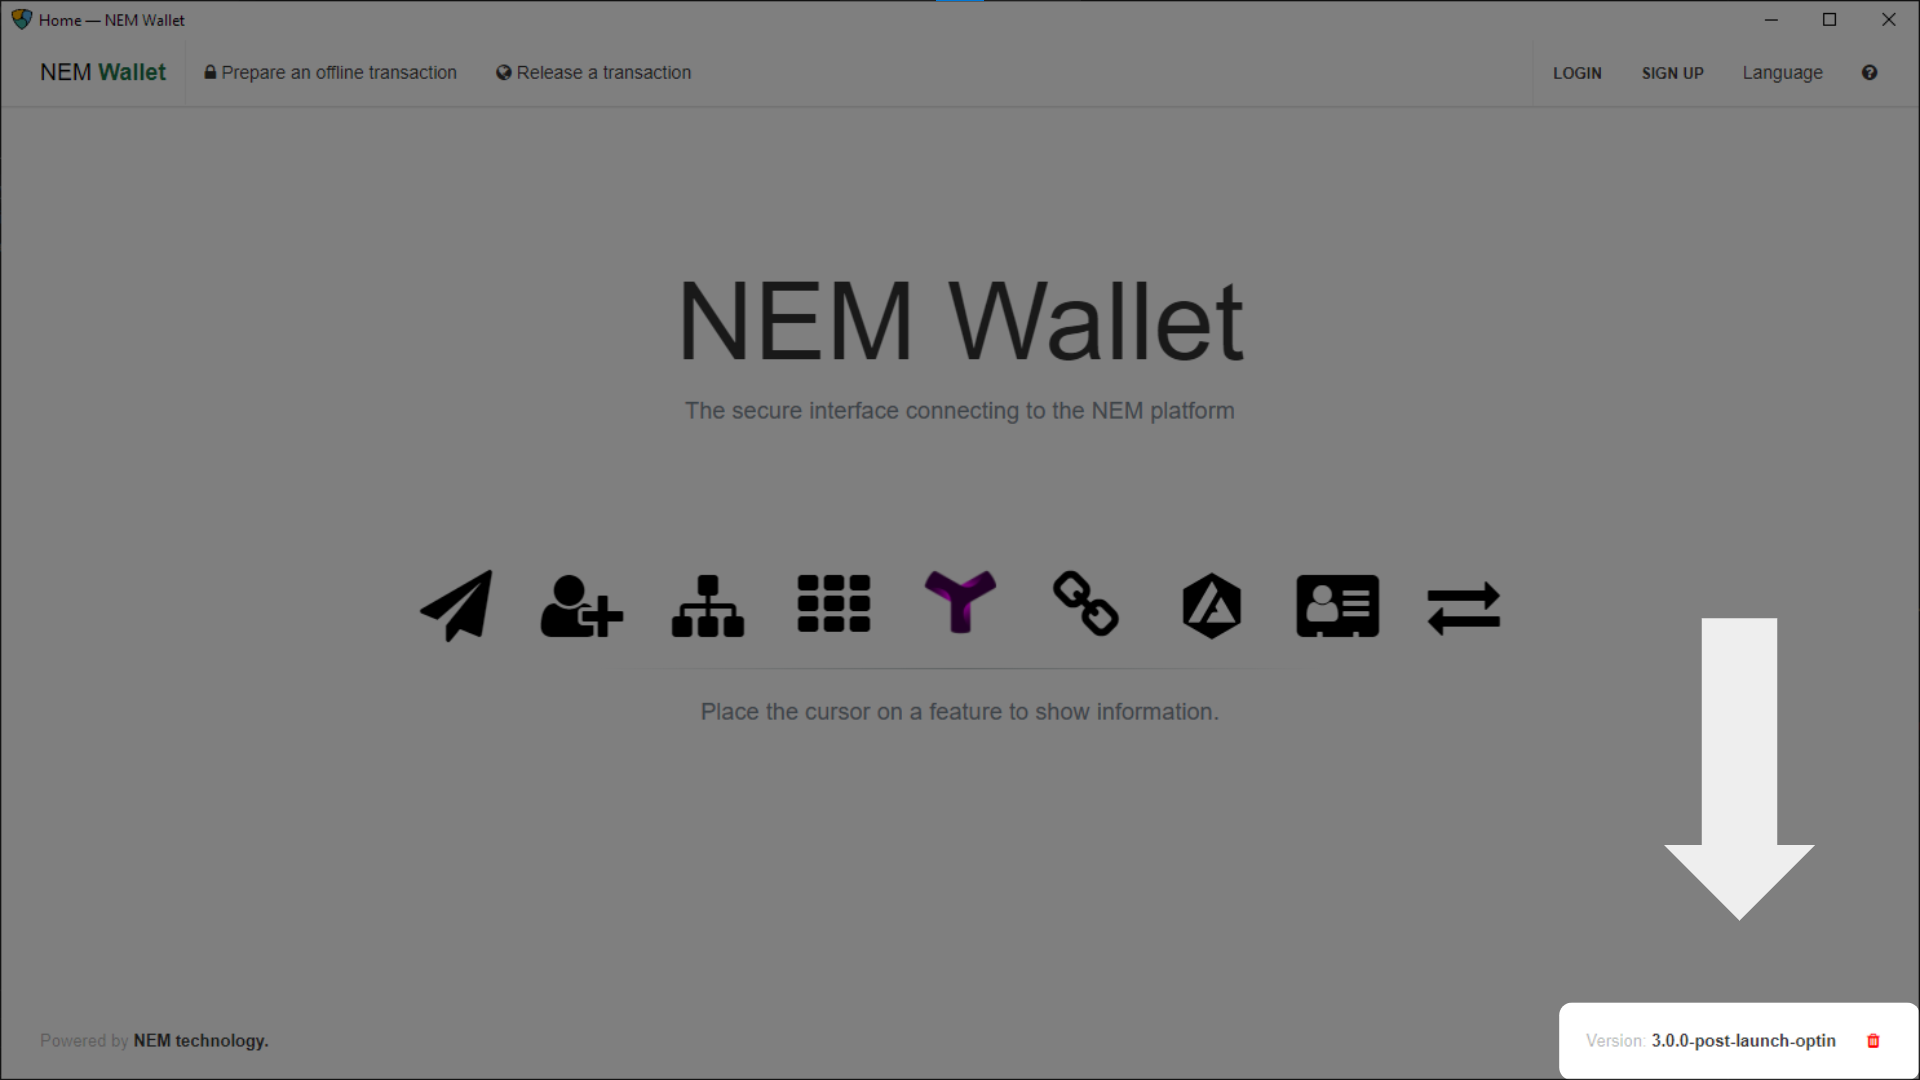
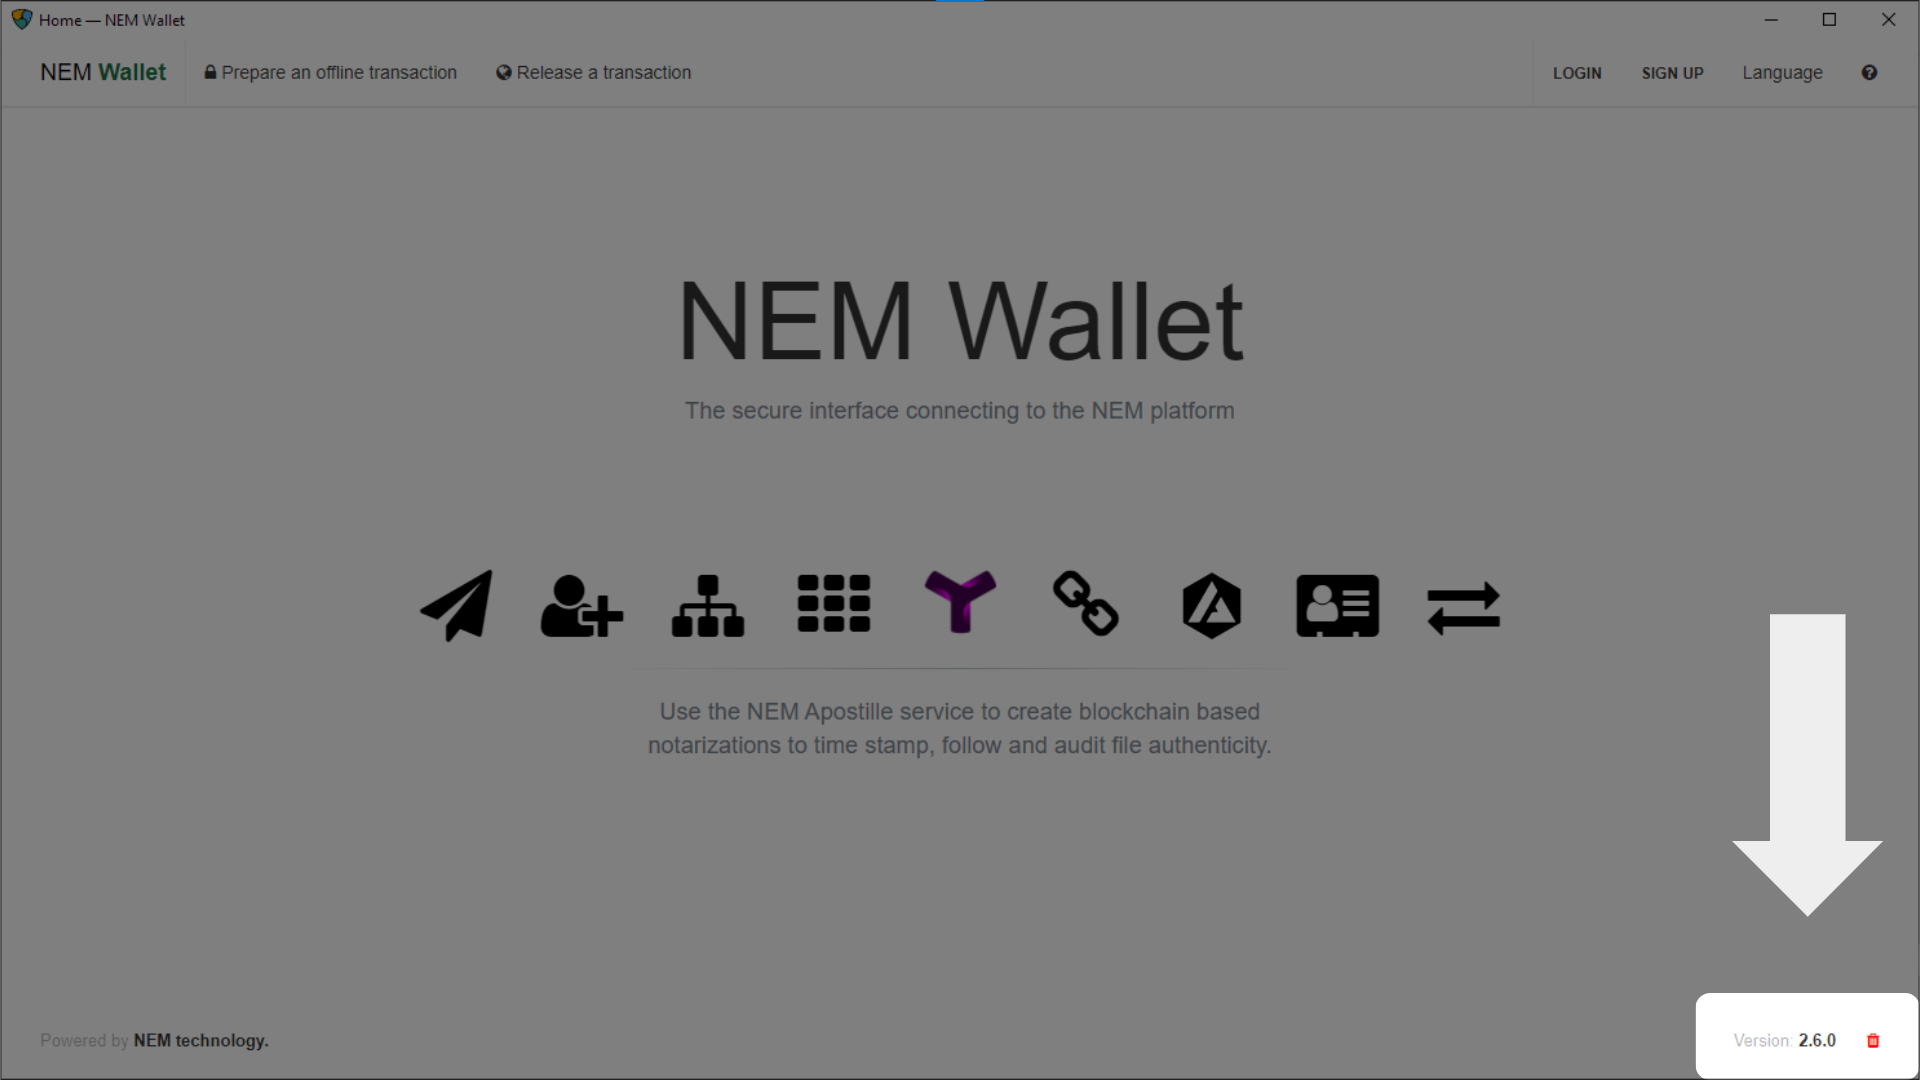
Use Nano wallet 2.6.0 por post-launch opt-in
Final version was not decided while writying the guide.

Changed region(s): [[0.875, 0.55, 1.0, 0.8556], [0.3438, 0.6417, 0.6562, 0.7028], [0.8125, 0.9167, 1.0, 1.0]]

diff --git a/source/guides/migration/post-launch-optin-xym-retrieval.rst b/source/guides/migration/post-launch-optin-xym-retrieval.rst
@@ -66,7 +66,7 @@ Now that you know where do you want your XYMs transferred, you can start the Opt
 
 4. **Download and install** the `NEM Wallet <https://nemplatform.com/wallets/#desktop>`__ for your platform, if you don't already have it.
 
-   Make sure you have installed **at least version 3.0.0**, so the post-launch Opt-in module is present.
+   Make sure you have installed **at least version 2.6.0**, so the post-launch Opt-in module is present.
 
    .. image:: /resources/images/screenshots/post-launch-optin-2.png
        :align: center
